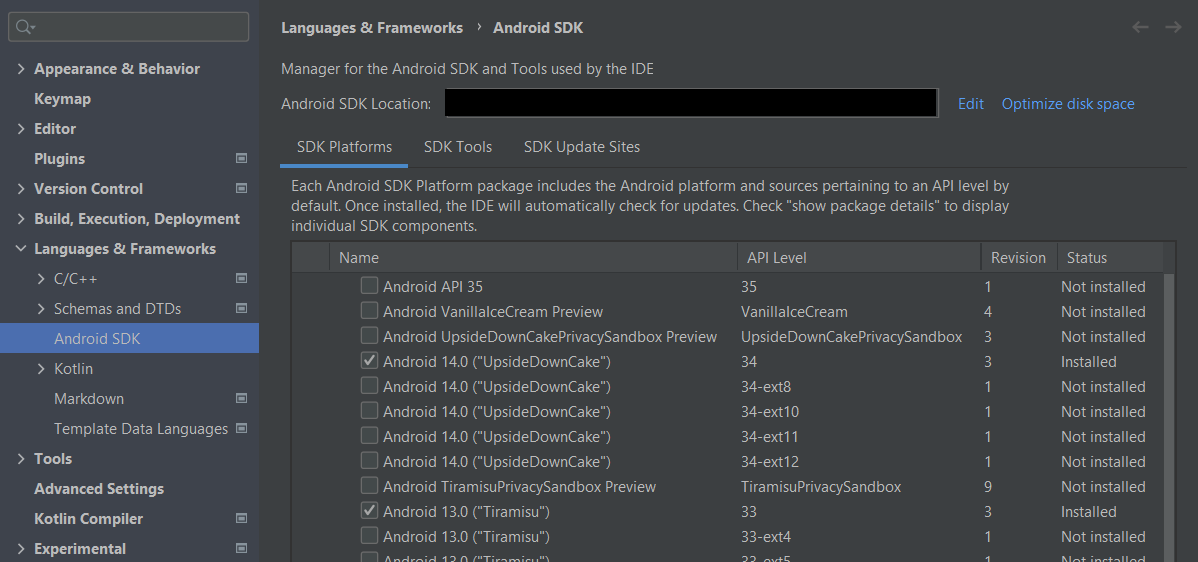
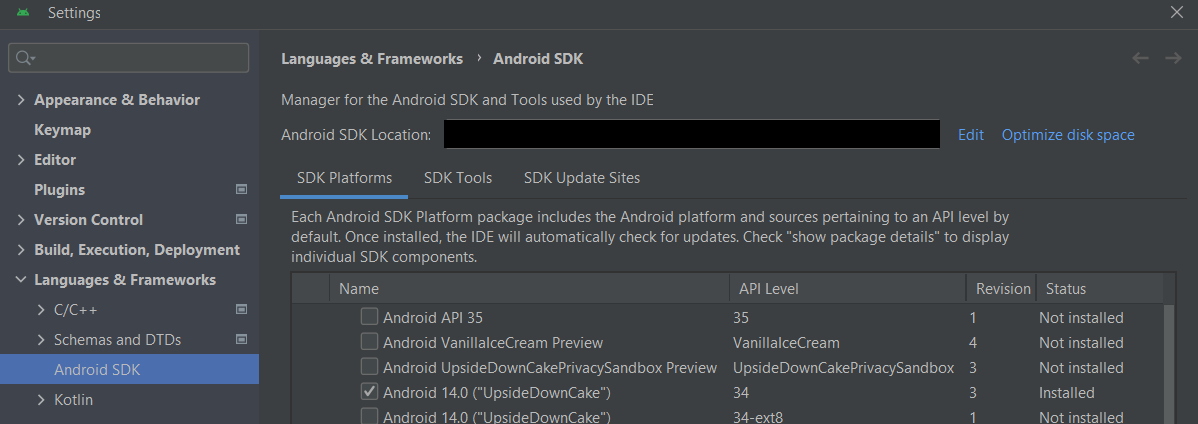
Local Building is actually on Android 14 according to latest build.gradle.kts (compileSdk=34)

diff --git a/docs/Developers/Building-Locally.md b/docs/Developers/Building-Locally.md
@@ -16,7 +16,7 @@ By the end of this guide, you will have Unciv running locally from code, so you 
 -   Gradle will attempt the initial sync. If this is your first time with Android Studio, this may require you to accept the Android Build-tools licenses, which works differently on every device, so search for your OS-specific solution.
     -   A new install may not be able to do the initial sync - this comes in the form of `Unable to find method ''void org.apache.commons.compress.archivers.zip.ZipFile.<init>(java.nio.channels.SeekableByteChannel)''` errors when you try to sync. If you have this problem go into File > Settings > Languages & Frameworks > Android SDK
         - Click "SDK Platforms"
-        - Click "Android 13 (Tiramisu)"
+        - Click "Android 14 ("UpsideDownCake")"
         ![image](/Unciv/assets/Android_SDK_Platforms.png)
           (Optionally, you can save some space by selecting 'Show Package Details' and choosing the Platform SDK only, without Sources or system Images)
         - Click "SDK Tools"
